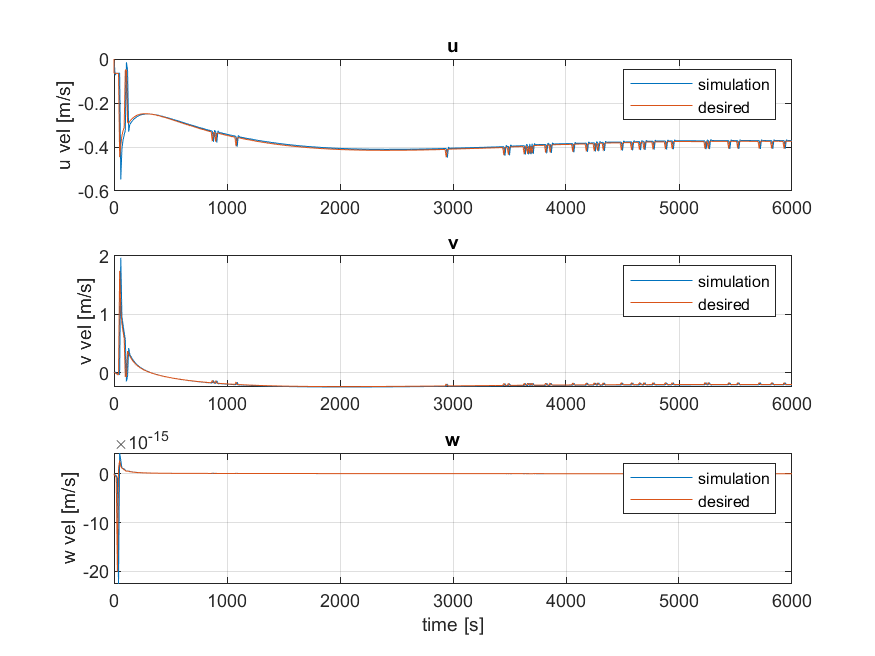
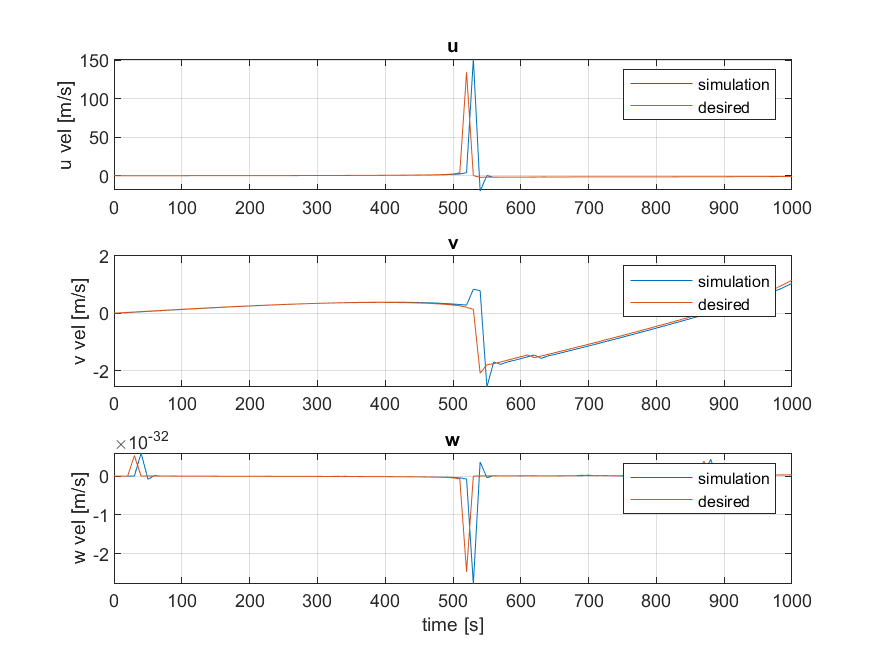
Added final guidance mode

diff --git a/Master_Simulation.m b/Master_Simulation.m
@@ -35,7 +35,7 @@ relative_state_chaser = [ % in CW reference frame centered at target
 %% Simulation constants
 simulation_time_step_large = 10; %s
 simulation_time_step_small = 0.3; %s
-time_out_time = 6000; %s
+time_out_time = 1000; %s
 
 RotatingEarth = false;
 controller = "PID";
@@ -85,6 +85,7 @@ while running
     elseif mode == "Final"
         time_step = simulation_time_step_small;
     end
+    disp("Mode: " + mode)
 
     if t >= time_out_time
         running = false;
@@ -132,7 +133,7 @@ while running
         mean_motion, ...
         control_mode ...
         );
-    control_force(1,1) = -control_force(1,1);
+    % control_force(1,1) = -control_force(1,1);
     
     disp("beginning time: " + t)
     disp("rel state: " + relative_state_chaser)

diff --git a/Guidance/guidance.m b/Guidance/guidance.m
@@ -107,6 +107,7 @@ elseif (y0 >= pos_t(1,2)) && (y0 < pos_t(5,2)) % Closing phase
     mode = 'Closing';
 else
     mode = 'Final';
+    [x,y,z,dx,dy,dz] = [pos_t(end,1),pos_t(end,2),pos_t(end,3),0,0,0];
 end
 
 
